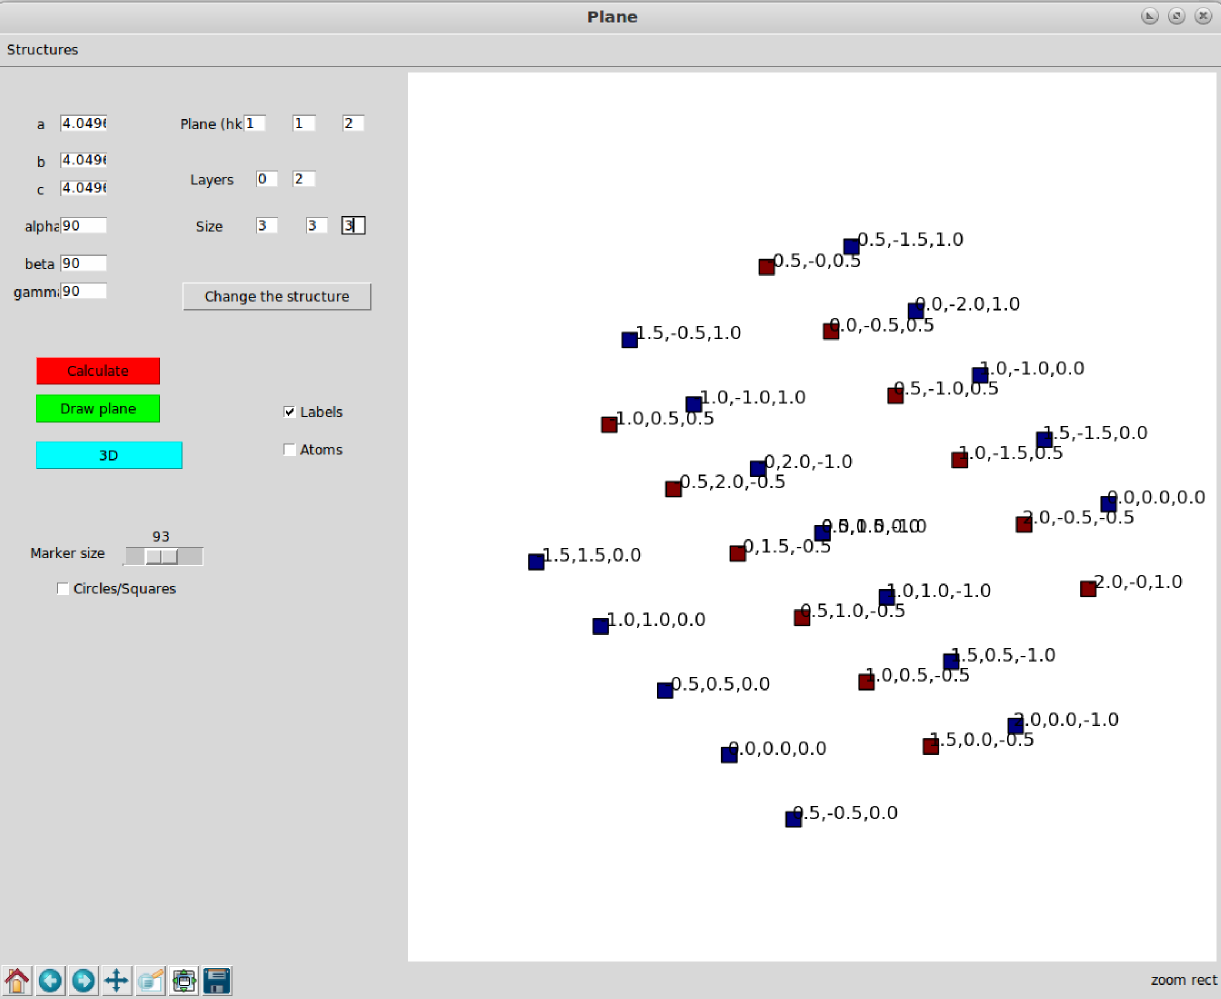
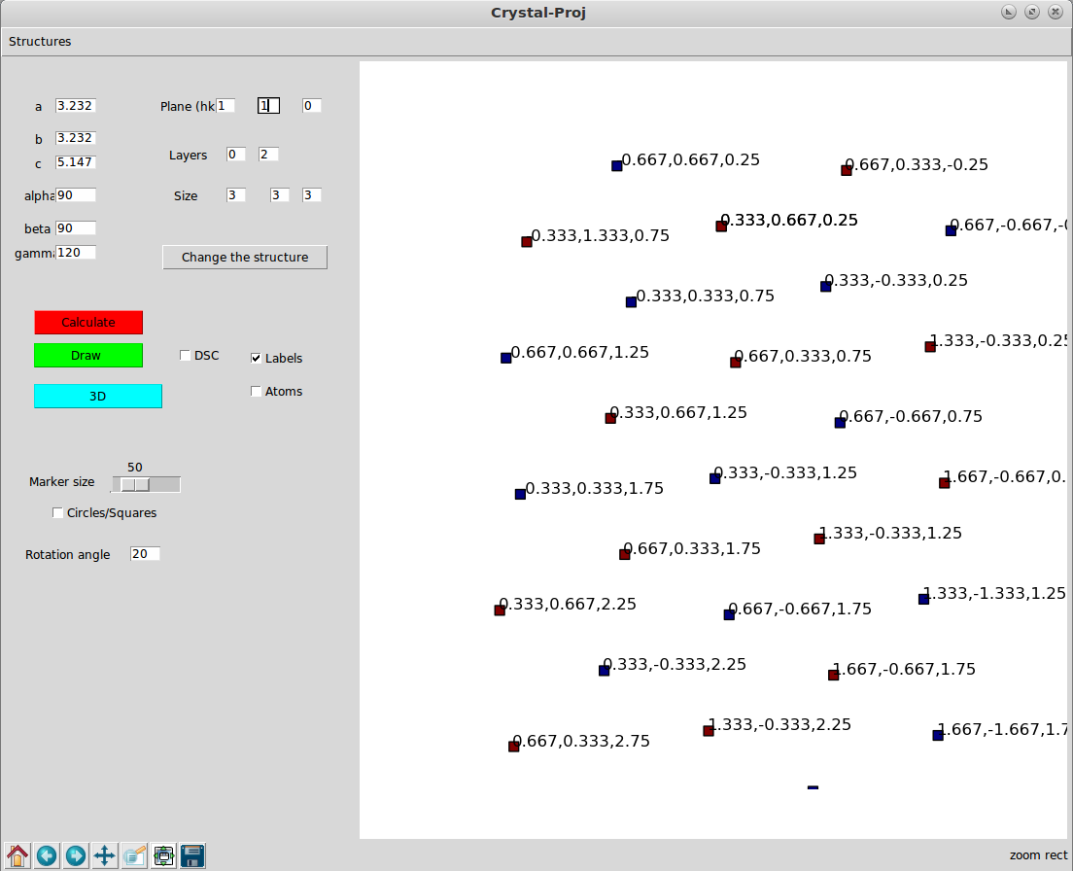
dichromatic update

diff --git a/cristal-proj.py b/cristal-proj.py
@@ -14,6 +14,7 @@ from matplotlib import pyplot as plt
 from Tkinter import *
 from tkFileDialog import *
 from matplotlib.backends.backend_tkagg import FigureCanvasTkAgg, NavigationToolbar2TkAgg
+import matplotlib.cm as cm
 import ttk
 from mpl_toolkits.mplot3d import Axes3D
 import os
@@ -64,7 +65,7 @@ def unique(a):
 
 def calcul():
   
-    global vec,varname,atom0,Dstar,taille,zoom, EL, Dz
+    global vec,varname,atom0,Dstar,taille,zoom, EL, Dz, dsc_cond
 
    
    
@@ -90,20 +91,32 @@ def calcul():
             atom0.append(crist[i])
             
     vec=np.array(vec,float)
-    atom0=np.array(atom0,float)
-    
-    maxi=np.int(atom0[np.shape(atom0)[0]-1,0])
     E=np.array([0,0,0,0])
     EL=np.array([0,0,0,0,0])
     H=np.array([[0]])
     Dz=np.array([0,0,0])
     
-    for h in range(1,maxi+1):
-        Ca=calcul_atom(atom0[atom0[:,0] == h])
-       
+    if dsc_cond.get()==0:
+        atom0=np.array(atom0,float)
+        maxi=np.int(atom0[np.shape(atom0)[0]-1,0])
+        for h in range(1,maxi+1):
+            Ca=calcul_atom(atom0[atom0[:,0] == h])
+           
+            E=np.vstack((E,Ca[0]))
+            Dz=np.vstack((Dz,Ca[1]))        
+            H=np.vstack((H,h*np.ones((np.shape(Ca[0])[0],1))))
+    if dsc_cond.get()==1:
+        atom0=np.array([1,0,0,0])
+        h=1
+        Ca=calcul_atom(atom0)
         E=np.vstack((E,Ca[0]))
         Dz=np.vstack((Dz,Ca[1]))        
         H=np.vstack((H,h*np.ones((np.shape(Ca[0])[0],1))))
+        
+    
+    
+    
+    
     
     EL=np.append(E,H,axis=1)
     EL=np.delete(EL,(0),axis=0)  
@@ -118,38 +131,61 @@ def trace():
     fi.figure.clear()
     fi = f.add_subplot(111) 
     sim=taille.get()
-    
-    if rond.get()==1:    
-        fi.scatter(EL[:,0],EL[:,1],s=sim,c=EL[:,3],marker='o')
-    else:
-        fi.scatter(EL[:,0],EL[:,1],s=sim,c=EL[:,3],marker='s')
-    
-    
-   
-    if ato.get()==1:    
-        for k in range(0,np.shape(EL)[0]):
-            fi.annotate(str(int(EL[k,4])),(EL[k,0],EL[k,1]))    
-    
-    
-    if lab.get()==1:
-        for q in range(0,np.shape(EL)[0]):
-            at=Dz[q,:]
-            at=np.dot(at,Dstar)
-            
-            vector=str(np.around(at[0],decimals=3))+','+str(np.around(at[1],decimals=3))+','+str(np.around(at[2],decimals=3))
-            fi.annotate(vector,(EL[q,0],EL[q,1]))
-            
-
-    
+    if dsc_cond.get()==0:
+        if rond.get()==1:    
+            fi.scatter(EL[:,0],EL[:,1],s=sim,c=EL[:,3],marker='o')
+        else:
+            fi.scatter(EL[:,0],EL[:,1],s=sim,c=EL[:,3],marker='s')
+        
+        
+       
+        if ato.get()==1:    
+            for k in range(0,np.shape(EL)[0]):
+                fi.annotate(str(int(EL[k,4])),(EL[k,0],EL[k,1]))    
+        
+        
+        if lab.get()==1:
+            for q in range(0,np.shape(EL)[0]):
+                at=Dz[q,:]
+                at=np.dot(at,Dstar)
+                
+                vector=str(np.around(at[0],decimals=3))+','+str(np.around(at[1],decimals=3))+','+str(np.around(at[2],decimals=3))
+                fi.annotate(vector,(EL[q,0],EL[q,1]))
+                
+    if dsc_cond.get()==1:
+        theta=eval(theta_entry.get())
+        theta=theta*np.pi/180
+        ELr=np.dot(EL[:,0:3],Rot(theta,0,0,1))
+        
+        
+        
+        M=unique(EL[:,3])
+        Ma=[]
+        m=('o','s','^','*','h','+')
+        for t in range(0,np.shape(M)[0]):
+            for i in range(0,np.shape(EL[:,3])[0]):
+                if EL[i,3]==M[t]:
+                    Ma.append(m[t])
+        else:
+            Ma.append('D')
+          
+        for y in range(0,np.shape(EL[:,3])[0]):
+            fi.scatter(EL[y,0],EL[y,1],s=sim*1,c='0',marker=Ma[y],cmap=cm.Greys_r )
+            fi.scatter(ELr[y,0],ELr[y,1],s=sim,c='1',marker=Ma[y],cmap=cm.Greys_r, facecolors='none')
+        
+        
+        if lab.get()==1:
+            for q in range(0,np.shape(EL)[0]):
+                at=Dz[q,:]
+                at=np.dot(at,Dstar)
+                
+                vector=str(np.around(at[0],decimals=1))+','+str(np.around(at[1],decimals=1))+','+str(np.around(at[2],decimals=1))
+                fi.annotate(vector,(EL[q,0],EL[q,1]))
     fi.axis('off') 
     fi.axis('equal')
     fi.figure.canvas.draw() 
 
-   
-
-     
-        
-    
+ 
 
 
 def rep():
@@ -266,23 +302,34 @@ def calcul_atom(atom):
     na=eval(size_entry_a.get())
     nb=eval(size_entry_b.get())
     nc=eval(size_entry_c.get())
-    
-    A=np.zeros((np.shape(atom)[0],np.shape(atom)[1]-1))
-    w=0
-    
-    for v in range(0,np.shape(atom)[0]):
+    if dsc_cond.get()==0:
+        A=np.zeros((np.shape(atom)[0],np.shape(atom)[1]-1))
+        w=0
+        for v in range(0,np.shape(atom)[0]):
+            A[w,:]=np.dot(D,np.array([atom[v,1],atom[v,2],atom[v,3]]))
+            w=w+1
+        atom_pos=np.array(A[0,:])
+        for f in range(0,np.shape(A)[0]):
+            for i in range(-na,na+1):
+                for j in range(-nb,nb+1):
+                    for k in range(-nc,nc+1):
+                            atom_pos=np.vstack((atom_pos,A[f,:]+i*a*vec[0,:]+j*b*vec[1,:]+k*c*vec[2,:]))        
         
-        A[w,:]=np.dot(D,np.array([atom[v,1],atom[v,2],atom[v,3]]))
-        w=w+1
-    
-    atom_pos=np.array(A[0,:])
-#    print(atom_pos)
-    for f in range(0,np.shape(A)[0]):
+    if dsc_cond.get()==1:
+        atom_pos=np.array([0,0,0])
         for i in range(-na,na+1):
             for j in range(-nb,nb+1):
                 for k in range(-nc,nc+1):
+                        atom_pos=np.vstack((atom_pos,i*a*vec[0,:]+j*b*vec[1,:]+k*c*vec[2,:]))
+        
+    
+    
+    
+    
+    
+#    print(atom_pos)
+    
                         
-                        atom_pos=np.vstack((atom_pos,A[f,:]+i*a*vec[0,:]+j*b*vec[1,:]+k*c*vec[2,:]))
     h=eval(h_entry.get())
     k=eval(k_entry.get())
     l=eval(l_entry.get())
@@ -320,22 +367,68 @@ def calcul_atom(atom):
         D0=np.vstack((D0,1+np.abs(np.around(np.dot(planN,Dz[j]),decimals=4))))
     C=np.delete(C,(0),axis=0)    
     D0=np.delete(D0,(0),axis=0)
-   
+    Dz=np.delete(Dz,(0),axis=0)
     F=np.append(C,D0,axis=1)
            
     return F, Dz, atom_pos    
 
 
+def dsc():
+    global vec,varname,atom0,Dstar,taille,zoom, EL, Dz
+       
+    fi = f.add_subplot(111) 
+    fi.figure.clear()
+    fi = f.add_subplot(111) 
+    sim=taille.get()
+#    h=eval(h_entry.get())
+#    k=eval(k_entry.get())    
+#    l=eval(l_entry.get())
+    theta=eval(theta_entry.get())
+    theta=theta*np.pi/180
+    ELr=np.dot(EL[:,0:3],Rot(theta,0,0,1))
+    
+    
+    
+    M=unique(EL[:,3])
+    Ma=[]
+    m=('o','s','^','*','h','+')
+    for t in range(0,np.shape(M)[0]):
+        for i in range(0,np.shape(EL[:,3])[0]):
+            if EL[i,3]==M[t]:
+                Ma.append(m[t])
+    else:
+        Ma.append('D')
+      
+    for y in range(0,np.shape(EL[:,3])[0]):
+        fi.scatter(EL[y,0],EL[y,1],s=sim*1,c='0',marker=Ma[y],cmap=cm.Greys_r )
+        fi.scatter(ELr[y,0],ELr[y,1],s=sim,c='1',marker=Ma[y],cmap=cm.Greys_r, facecolors='none')
+    
+    
+    if lab.get()==1:
+        for q in range(0,np.shape(EL)[0]):
+            at=Dz[q,:]
+            at=np.dot(at,Dstar)
+            
+            vector=str(np.around(at[0],decimals=1))+','+str(np.around(at[1],decimals=1))+','+str(np.around(at[2],decimals=1))
+            fi.annotate(vector,(EL[q,0],EL[q,1]))
+                
+    fi.axis('off') 
+    fi.axis('equal')
+    fi.figure.canvas.draw()     
+
+
+
+
 def getFileName():
     global varname
-    varname = askopenfilename()
+    varname = askopenfilename(initialdir=os.getcwd())
     return varname
 
 
 
    
 root = Tk()
-root.title('Plane')
+root.title('Crystal-Proj')
 root.geometry('1102x839')
 
 
@@ -359,13 +452,14 @@ default = style.lookup(theme, 'background')
 root.configure(background=default)
 
 def init():
-    global varname, lab, ato, rond,zoom,taille
+    global varname, lab, ato, rond,zoom,taille, dsc_cond
     varname=0
     lab=IntVar()
     ato=IntVar()
     rond=IntVar()
     zoom=IntVar()
     taille=IntVar()
+    dsc_cond=IntVar()
     
 init()  
 
@@ -373,7 +467,13 @@ plot_button = Button (master=root)
 plot_button.place(relx=0.03,rely=0.35,height=27,width=114)
 plot_button.configure(activebackground="#f9f9f9")
 plot_button.configure(background="#00ff00")
-plot_button.configure(text='''Draw plane''',command=trace)
+plot_button.configure(text='''Draw ''',command=trace)
+
+dsc_check = Checkbutton (master=root)
+dsc_check.place(relx=0.15,rely=0.35,height=27,width=74)
+dsc_check.configure(activebackground="#f9f9f9")
+dsc_check.configure(text='''DSC''')
+dsc_check.configure(variable=dsc_cond)
 
 a_label = Label (master=root)
 a_label.place(relx=0.03,rely=0.05,height=19,width=11)
@@ -534,6 +634,18 @@ size_marker_label.place(relx=0.01,rely=0.51,height=19,width=104)
 size_marker_label.configure(activebackground="#f9f9f9")
 size_marker_label.configure(text='''Marker size''')
 
+theta_label = Label (master=root)
+theta_label.place(relx=0.02,rely=0.6,height=19,width=94)
+theta_label.configure(activebackground="#f9f9f9")
+theta_label.configure(text='''Rotation angle''')
+
+theta_entry = Entry (master=root)
+theta_entry.place(relx=0.12,rely=0.60,relheight=0.02 ,relwidth=0.03)
+theta_entry.configure(selectbackground="#c4c4c4")
+
+
+
+
 menu = Menu(master=root)
 root.config(menu=menu)
 
@@ -595,6 +707,7 @@ size_entry_a.insert(2,2)
 size_entry_b.insert(2,2)
 size_entry_c.insert(2,2)
 size_scale.set(50)
+theta_entry.insert(20,20)
 rond_check.select()
 
 
